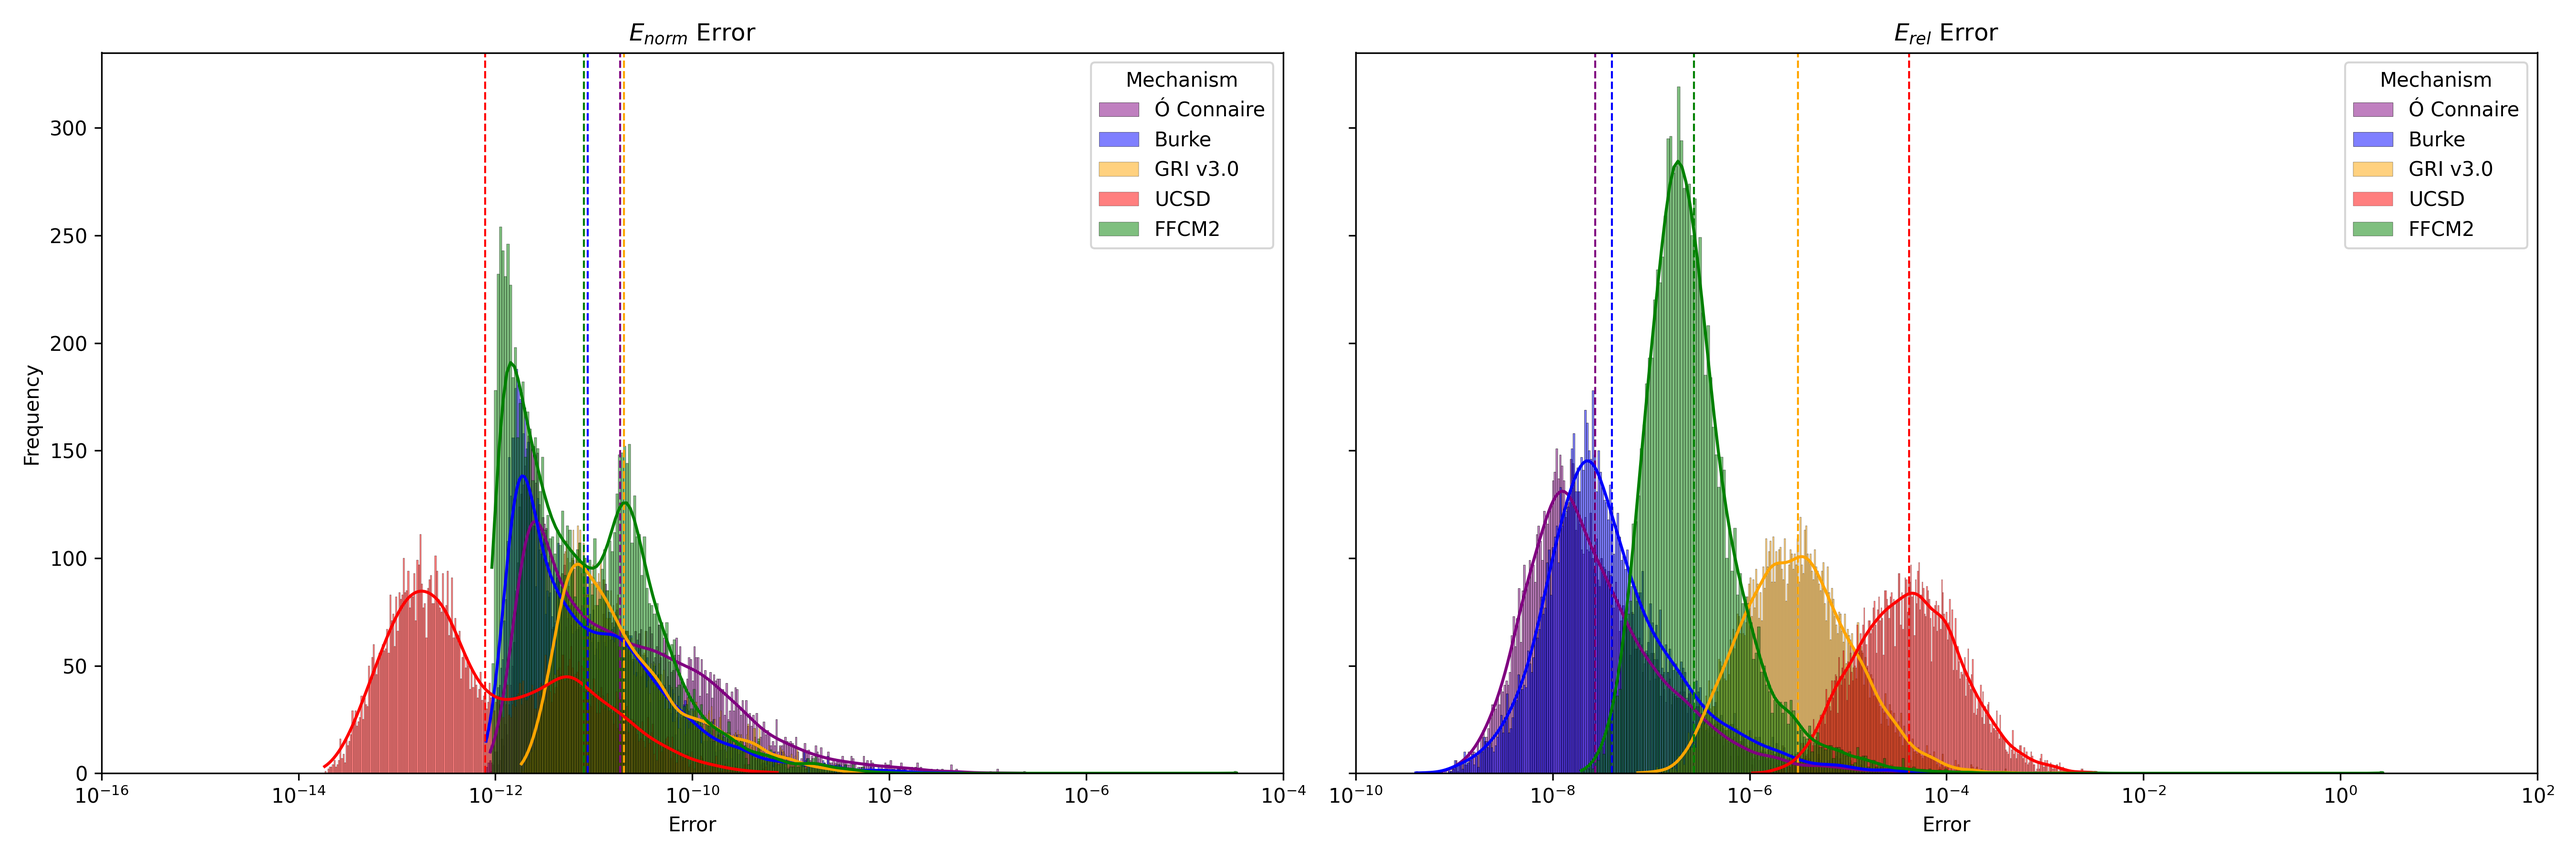
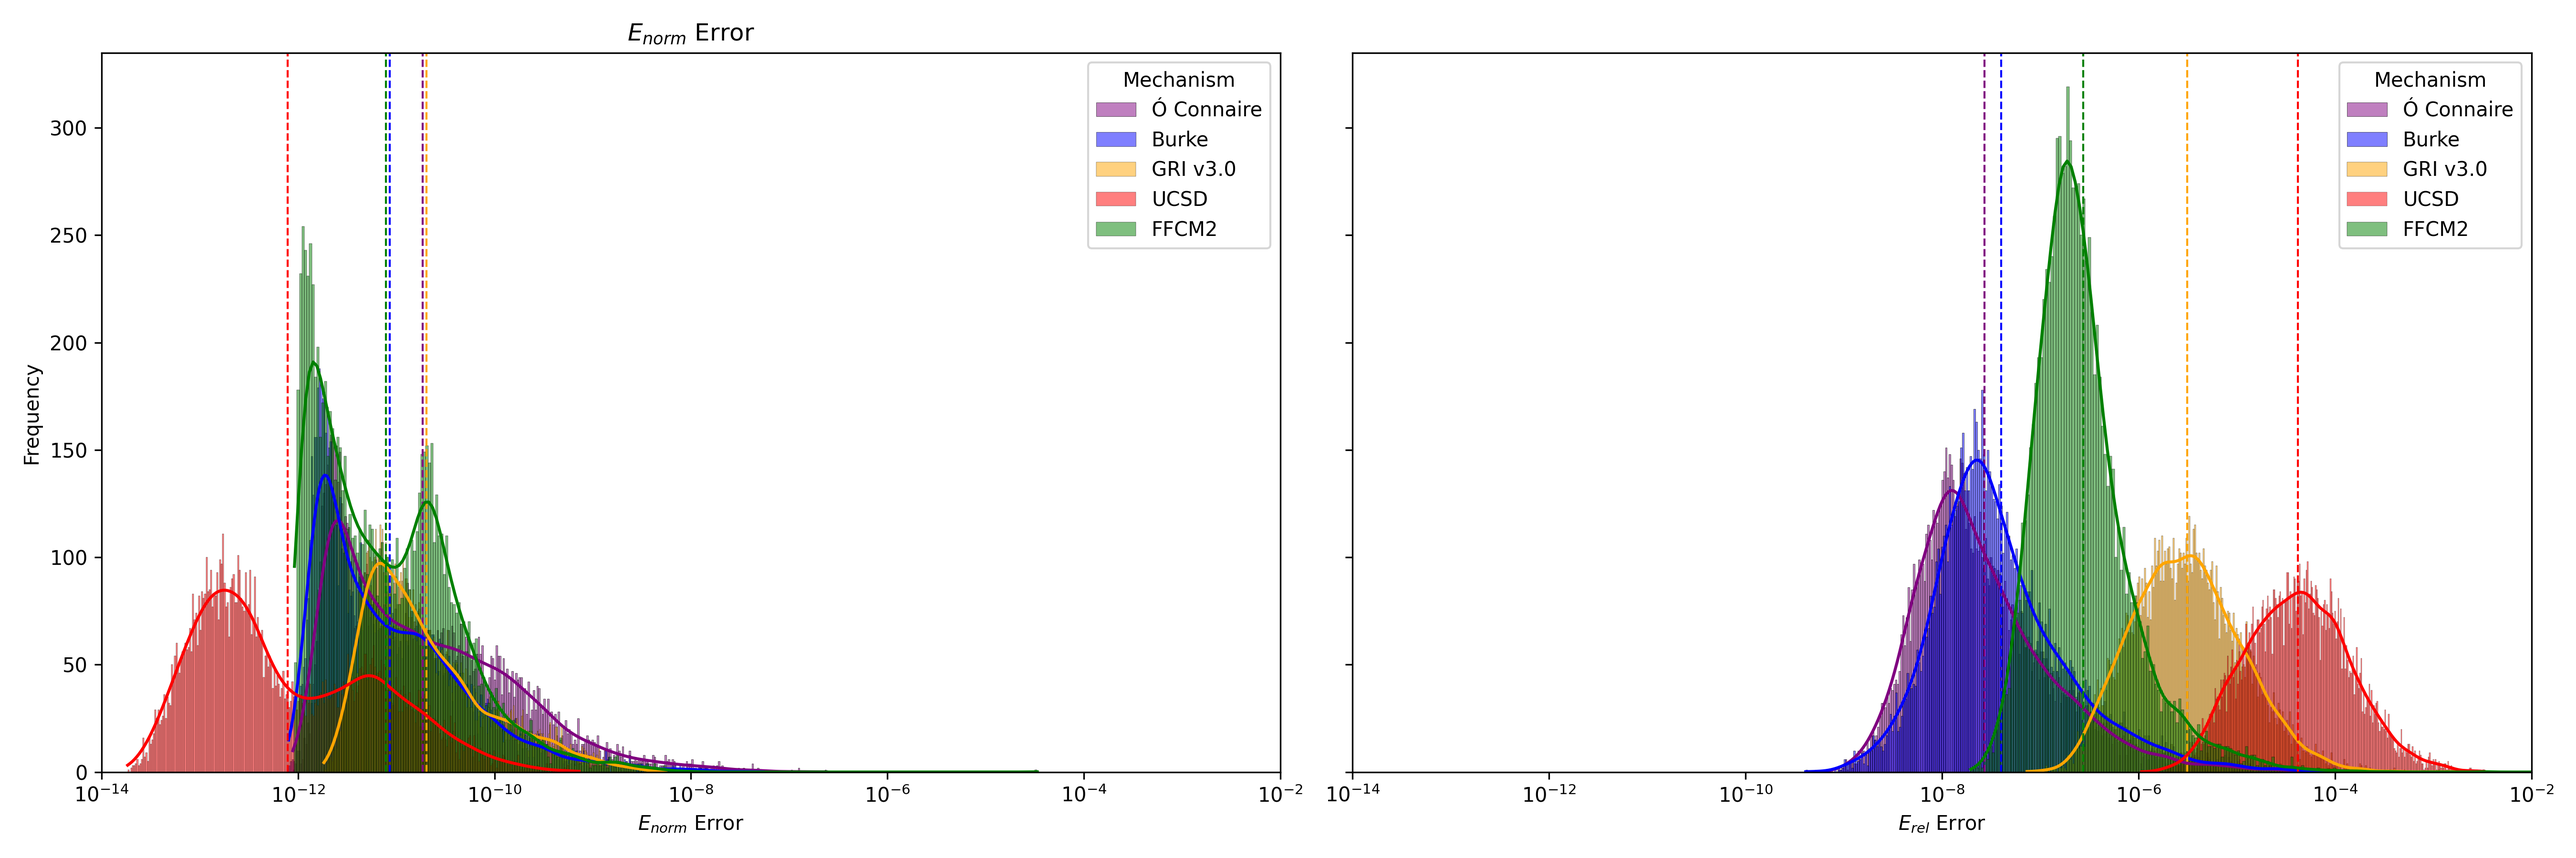
update paper

diff --git a/paper/data/03_jacobians/post_errors.py b/paper/data/03_jacobians/post_errors.py
@@ -37,12 +37,13 @@ for k, L2 in enumerate(L2s):
     )
     ax.axvline(np.mean(log_errors), color=colors[k], linestyle='--', linewidth=1)
 
+ax.set_xlim([-14,-2])
 xticks = ax.get_xticks()
 integer_ticks = xticks[np.isclose(xticks, np.round(xticks))]
 ax.set_xticks(integer_ticks)
 ax.set_xticklabels([f"$10^{{{int(t)}}}$" for t in integer_ticks])
 ax.set_title("$E_{norm}$ Error")
-ax.set_xlabel("Error")
+ax.set_xlabel("$E_{norm}$ Error")
 ax.set_ylabel("Frequency")
 ax.legend(title="Mechanism")
 
@@ -70,13 +71,12 @@ for k, L2 in enumerate(L2snei):
         kde=True
     )
     ax.axvline(np.mean(log_errors), color=colors[k], linestyle='--', linewidth=1)
-
+ax.set_xlim([-14,-2])
 xticks = ax.get_xticks()
 integer_ticks = xticks[np.isclose(xticks, np.round(xticks))]
 ax.set_xticks(integer_ticks)
 ax.set_xticklabels([f"$10^{{{int(t)}}}$" for t in integer_ticks])
-ax.set_title("$E_{rel}$ Error")
-ax.set_xlabel("Error")
+ax.set_xlabel("$E_{rel}$ Error")
 ax.legend(title="Mechanism")
 
 plt.tight_layout()
